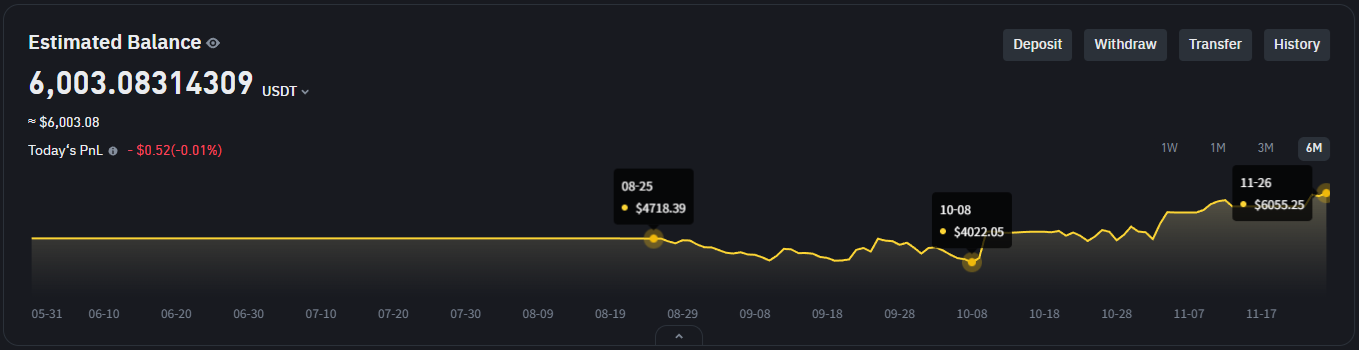
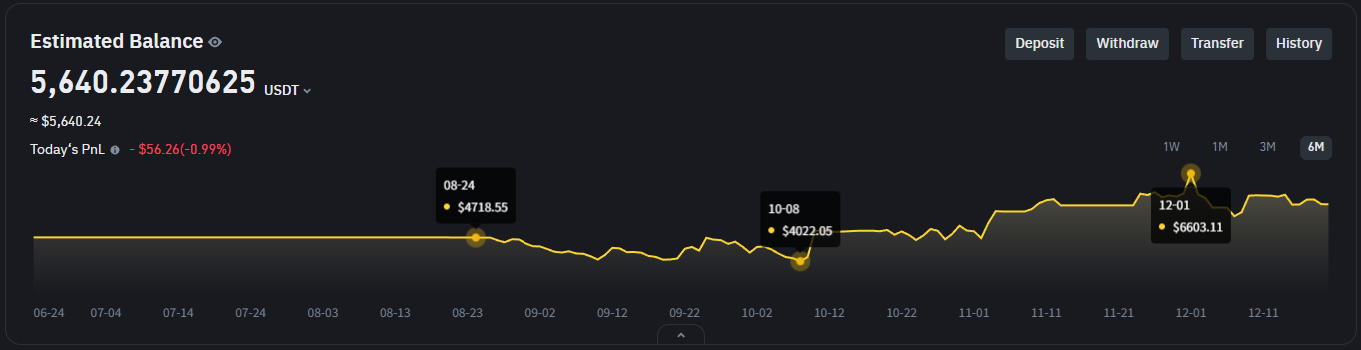
docs: update README - moved application launch related sections to the front, removed unnecessary details and personal stories in the introduction, and updated balance history image to show the data in December

diff --git a/README.md b/README.md
@@ -4,30 +4,78 @@
 
 ---
 ### 📖 Project Introduction ###
-This is the seventh version of the **Auto Trade Machine** project. I am excited to finally upload this version on GitHub, as this is the first operational version of the ATM project.
+This is the seventh and the first operational version of the **Auto Trade Machine** project. 
 
-#### ***What Is This?***  
-This is an all-in-one backtesting and automated trading application for Binance Futures. The application automatically gathers market data from Binance Futures for users to backtest their customized trading strategies and apply them for real automated trading. It has many experimental features such as a very basic form of neural network (MLP), orderbook and aggTrades data collection, volume profile interpretation, etc.
+This all-in-one application serves as a comprehensive platform for backtesting and automated trading on Binance Futures. Upon launch, it automatically connects to the exchange to fetch and retain market data locally, allowing users to rapidly experiment with custom strategies. The application is designed to streamline the 'Build-Test-Execute' trade strategy development cycle, enabling a seamless transition from backtesting to live trading.  
+Additionally, it includes several experimental features, such as a basic Neural Network model (Multi-Layer Perceptron), deep market data collection (Orderbook and AggTrades), volume profile interpretation, etc.
 
-#### ***Does It Actually Work?***  
-First it must be defined what we mean by ***"it works"***. If we limit the scope of its definition to the capability of analyzing and executing real-time trades, almost yes. Does it make meaningful and stable profit? Depends on the strategy being used. It is hard to give a straight answer, and I will describe the reasons in more detail in the section below.  
+To demonstrate the application's potential capabilities, I would like to share my automated trading experience on this application.  
 
-I think sharing my own experience would give a more straight answer. I have been running the application 24/7 since August 24th, 2025. It has been about three months, and I traded three cryptocurrencies - `BTCUSDT`, `ETHUSDT`, and `XRPUSDT` on **Binance Futures**.   
+<img src="./docs/balancehistory_myaccount.png" width="800">
 
-Beforehand, I first backtested my trade strategy and confirmed relatively stable growth in the total account balance. Over the span of 5 years, the final balance grew to over ~150 times that of the initial, and the maximum drawdown was around ~35% of the previous peak. It must be noted, however, that this was an optimized result on a historical data. This result does not mean that the similar pattern will appear in the future.
+* **Duration:** Running 24/7 since August 24, 2025 (~4 Months) with weekly application restarts.
+* **Cryptocurrencies:** `BTCUSDT`, `ETHUSDT`, `XRPUSDT` on Binance Futures.
+* **Backtest Result:** ~150x growth over 5 years with ~35% maximum drawdown.
+* **Account Balance History:**  
+  * **Initial:** $4,718.55  
+  * **Minimum:** $4,022.05  
+  * **Maximum:** $6,603.11  
+  * **Current:** $5,640.23  
 
-I have been lucky during the last three months though. Starting from 4,700 USDT, reached 4,000 USDT in October, and am now sitting at 5,660 USDT with unrealized PNL of 400 USDT at this very moment. The number can vary day to day, but that is roughly 7~8% monthly profit. But as the backtest result showed, my balance could go down directly to around 3,700 USDT or lower in the near future. So the risk always exists. The screenshot below is the total balance history of my actual Binance account.
+The average monthly profit has been around 4.9%, so I have been quite lucky so far. It must be noted, however, that **this application does not guarantee profit**, but only serves as a platform on which users can find their own ways to generate it.
 
-<img src="./docs/balancehistory_myaccount.png" width="1100" height="300">
+---
 
-So I am confident to say, despite it still has some technical limitations, the application does what it should do. It serves as a platform on which trading strategies can be customized, tested, and be used to execute automated trades. How well it generates profit? It depends completely on the strategy the user configures and decides to use.
+### ▶ How To Run ###
+* ***Windows*** 🪟
+1. Run `setup.bat` in the root directory. This will setup .venv to install any necessary libraries for this application.
+2. Run `run.bat` in the root directory. This will start the application.
 
-#### ***Performances***  
-ATM-Eta is a multiprocessing program. Each of the managers, analyzers, and simulators is an independent process, and the numbers of analyzer and simulator processes are dynamically determined upon program initialization based on the number of CPU cores of the user's computer. This allows a simultaneous execution of automated trade schemes and backtestings with minimal bottle-neck. 
+* ***Linux*** 🐧
+1. Execute the command `chmod +x setup.sh run.sh` in the terminal.
+2. Run `setup.sh` in the root directory. This will setup .venv to install any necessary libraries for this application.
+3. Run `run.sh` in the root directory. This will start the application.
 
-Currency analysis tasks are also dynamically allocated to each analyzer process during run-time, which allows efficient utilization of the hardware resources. The details on how this is done will be explained in the `System Architecture` section.
+---
 
-While the exact number varies depending on the configuration, average backtesting takes around 2~5 minutes per currency over a historical currency data of 5 years. It may seem slow but this is because not only does the simulator perform currency analysis, but also handles sequential trade execution, account data updates, SL (Stop-Loss) triggering, liquidation detection, etc. to simulate realistic trading environment.
+### ✅ Requirements ###
+* **Operating System**: Windows 10/11 or Linux
+* **Python**:           Version `3.9` or higher
+* **CPU**:              Minimum 8-core CPU
+* **RAM**:              16GB or more
+* **Storage**:          10GB or more
+
+---
+
+### 🧩 Limitations & Current Issues ###
+There still are problems that need to be addressed for the application to prove itself more useful and reliable. Some of them are closely related to each other, as will be described below.
+
+* **⚠ [IMPORTANT] Rare But Occuring Data Collection Instabilities**  
+  This is the most significant problem this applciation has. There are a few reasons why this happens.
+
+  During highly volatile market, Binance can disconnect some of the stream connections with its clients to its server load. This cannot be anticipated because the client-side has no way of knowing its position in the server's disconnection priority list or the logic behind it. Currently when such case occurs, the program automatically requests websocket stream connection with seconds of delay, fetch the entire orderbook (which again, costs API rate-limit), and update the local orderbook profile. This operation, especially considering that it needs to be done on hundreds of assets in a temporal window of only seconds, can easily create delays in generating trade logics. API rate-limit posed by the server is also a problem, because it takes only about 100 assets to reach the upper limit when requesting full orderbook profile data fetch.
+
+  The second scenario is when the stream data floods in too fast to the point where the client's computer cannot handle. As a form of handling the backpressure, the `python-binance` module automatically disconnects the websocket stream raising `'queue overflow'` exception. This application already has adjusted the maximum queue size so this case does not happen as often, it still appears to be almost impossible to avoid this issue completely.
+
+  Analyzer to Trade Manager PIP signal loss
+  WebSocket disconnection during highly volatile market
+
+* **Limited Flexiblity Trade Strategy Customization**  
+  Due to its systematical structure, the only means of trade startegy customization in this application is adjusting some parameters of already existing functions. For user to add 
+  
+  The only means of trade strategy customization is adjusting the predetermined set of variables of existing functions that ar hard-coded in the source code. This means whenever there needs to be a change in the trade logic, the program itself needs to be updated. This structure has an advantage of being more crash-proof and reliable. However, the fact that it is hard to expand the scope of customization is directly against the very purpose of this application.
+
+* **High Resource Usage**   
+  All of the features - data collection, database management, simulation and automated trading management are all included in a single program. The current multiprocessing structure requiring a minimmum of one process per each of these tasks makes the application very resource-heavy. The inefficient IPC module design 
+
+  All of the features - data collection, database management, simulation and automated trading management are all included in a single program. The current multiprocessing structure requiring a minimum of one process for each of these tasks make the application very resource-heavy, and the current inefficient IPC module makes it even worse. Once you start the application, you will be able to see that this application takes up 5~10 Gb of RAM (Depending on the number of analyzers+simulators initialized), even during an idle state. The reasons are as below.
+   * Large IPC message queue buffer size. Originally was determined to be so to relieve queue back-pressure.
+   * Always-alive process structure. Instead of being dynamically generated and terminated once a task is completed, each of the processes of this application are initialized upon program launch, as stay alive until the main process determines to terminate the entire program.
+
+* **Minor GUI Bugs**  
+  This application used a custom-developed GUI engine based on Pyglet. 
+ 4. Text Input Box Lag
+ 5. ChartDrawer Lag
 
 ---
 
@@ -269,33 +317,6 @@ A trade strategy in this application refers to a set of three processes - curren
   $$
   <br>
   </Details>
-
----
-
-### 🧩 Limitations & Current Issues ###
- 1. Analyzer to Trade Manager PIP signal loss
- 2. WebSocket disconnection during highly volatile market
- 3. Minor GUI bugs
- 4. Text Input Box Lag
- 5. ChartDrawer Lag
-
- There still are problems that need to be addressed for the application to prove itself more useful and reliable. Some of them are closely related to each other, as will be described below.
-
-* **Unstable Data Stream Connection During Highly Volatile Market**  
-  This is the most significant problem this applciation has. There are a few reasons why this happens.
-
-  During highly volatile market, Binance can disconnect some of the stream connections with its clients to its server load. This cannot be anticipated because the client-side has no way of knowing its position in the server's disconnection priority list or the logic behind it. Currently when such case occurs, the program automatically requests websocket stream connection with seconds of delay, fetch the entire orderbook (which again, costs API rate-limit), and update the local orderbook profile. This operation, especially considering that it needs to be done on hundreds of assets in a temporal window of only seconds, can easily create delays in generating trade logics. API rate-limit posed by the server is also a problem, because it takes only about 100 assets to reach the upper limit when requesting full orderbook profile data fetch.
-
-  The second scenario is when the stream data floods in too fast to the point where the client's computer cannot handle. As a form of handling the backpressure, the `python-binance` module automatically disconnects the websocket stream raising `'queue overflow'` exception. This application already has adjusted the maximum queue size so this case does not happen as often, it still appears to be almost impossible to avoid this issue completely.
-
-* **Limited Flexibility In Trade Strategy Customization**  
-  The only means of trade strategy customization is adjusting the predetermined set of variables of existing functions that ar hard-coded in the source code. This means whenever there needs to be a change in the trade logic, the program itself needs to be updated. This structure has an advantage of being more crash-proof and reliable. However, the fact that it is hard to expand the scope of customization is directly against the very purpose of this application.
-
-* **High-Resource Usage**  
-  All of the features - data collection, database management, simulation and automated trading management are all included in a single program. The current multiprocessing structure requiring a minimum of one process for each of these tasks make the application very resource-heavy, and the current inefficient IPC module makes it even worse. Once you start the application, you will be able to see that this application takes up 5~10 Gb of RAM (Depending on the number of analyzers+simulators initialized), even during an idle state. The reasons are as below.
-
-   * Large IPC message queue buffer size. Originally was determined to be so to relieve queue back-pressure.
-   * Always-alive process structure. Instead of being dynamically generated and terminated once a task is completed, each of the processes of this application are initialized upon program launch, as stay alive until the main process determines to terminate the entire program.
 
 ---
 
@@ -571,47 +592,9 @@ Once the program starts, a GUI window will open up letting the user to nagivate 
   
 ---
 
-### ▶ How To Run ###
-* ***Windows*** 🪟
-1. Run `setup.bat` in the root directory. This will setup .venv to install any necessary libraries for this application.
-2. Run `run.bat` in the root directory. This will start the application.
-
-* ***Linux*** 🐧
-1. Enter the command `chmod +x setup.sh run.sh`
-2. Run `setup.sh` in the root directory. This will setup .venv to install any necessary libraries for this application.
-3. Run `run.sh` in the root directory. This will start the application.
-
----
-
-### ✅ Requirements ###
-This application is built on Python and requires the following environment:
-* **Operating System**: Windows 10/11 and Linux
-* **Python**:           Version `3.9` or higher
-* **Binance Account**:  A Futures account with API Key & Secret Key allowed for trading
-* **Hardware**:         Minimum 8-core CPU & 16GB RAM recommended (due to multiprocessing)
-
-> **Note**: For actual trading, a stable internet connection is strictly required to handle WebSocket streams without interruption.
-
----
-
-### ⚠ Warning
-* Even though real Binance account connection and trading is possible, this application **DOES NOT** guarantee profits. 
-* WebSocket connection can be unstable during highly volatile market. 
-* Occasional PIP (Potential Investment Plan) signal loss may be found in real-time trading. When that happens on the symbol that is being traded, I highly recommend re-starting the application.
-* The trading strategy `Trade Scenario (TS)` is incomplete. The developer sadly could not find any way to use this strategy to generate stable profit and decided to leave it there for now and move on 😢 for now. Trying to use it **WILL** crash the application. **DO NOT USE IT**.
-
-I myself have been running the application 24/7 with occasional application restarts for about three months since August 24th, and have not experienced any major issues trading with the trading strategy `Remaining Quantity Percentage Map (RQPM)`. If you ever happen to be interesed to try, you could configure a strategy and invest just a **TINY** bit amount of money for fun.
-
----
-
 ### 🤝 Credits
 * **[python-binance](https://github.com/sammchardy/python-binance)** by *sammchardy* (MIT License)  
   - This project includes a modified version of `python-binance`. An option to disable the first kline search within the `futures_historical_klines` function in `client.py` module was added. 
-
----
-
-### 🗺 Future Plans 
-Since a major system restructuring is anticipated to be needed in order to address the current limitations, I decided to wrap up this version here and move on to the next. The successor will have the major roles - data collection, automated trading, and simulation be completely separated. Comprehensive redesign of IPC module and server connection handler will be made, and more flexible and detailed trade strategy customization and visualization methods will be introduced.
 
 ---
 
@@ -621,6 +604,6 @@ Since a major system restructuring is anticipated to be needed in order to addre
 ---
 
 ### 📄 Document Info
-* **Last Updated:** December 18th, 2025  
+* **Last Updated:** December 22th, 2025  
 * **Author:** Bumsu Kim
 * **Email:**  kimlvis31@gmail.com
